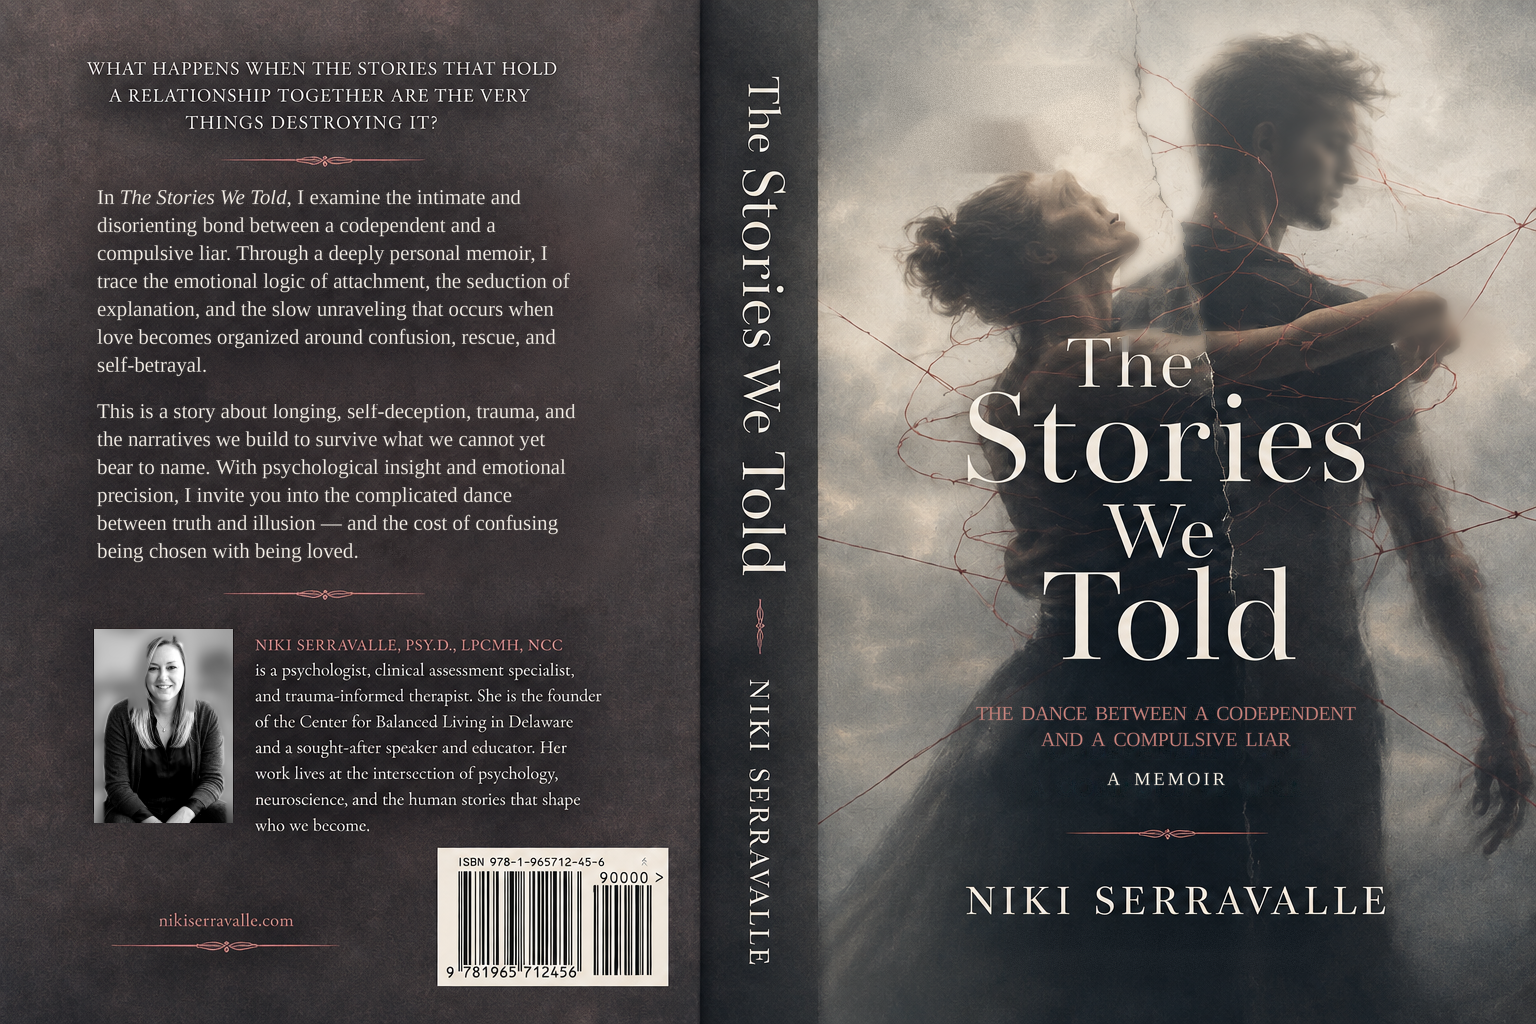
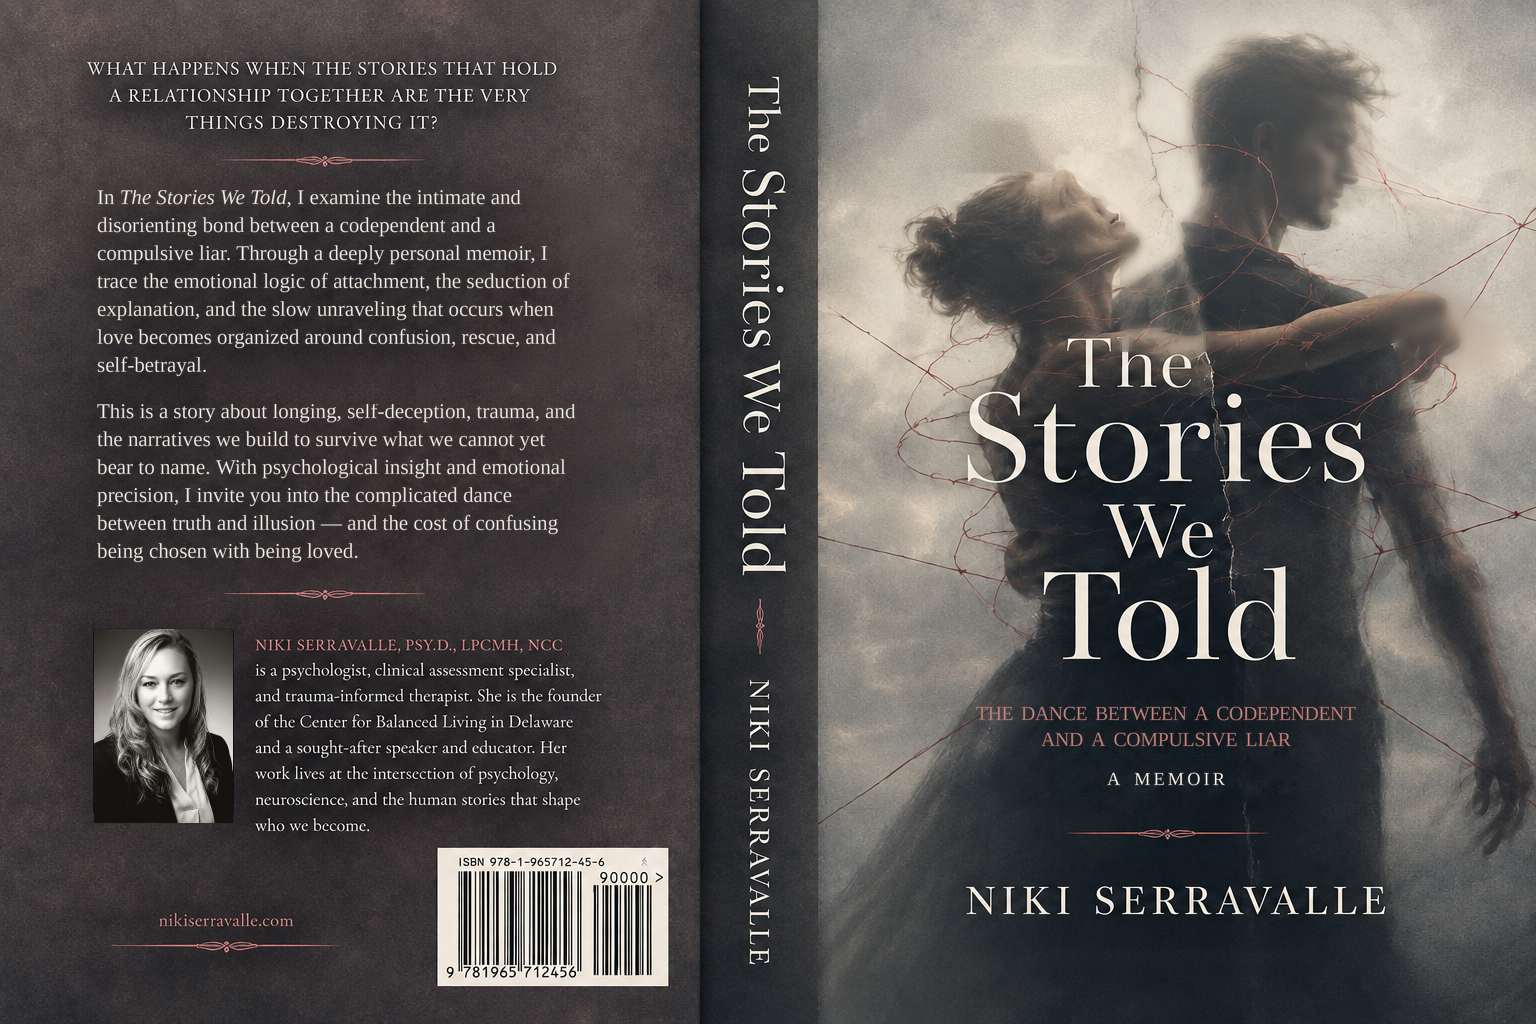
Swap to sharpened studio B&W headshot; recover blurred hair detail
Replace the author photo with the supplied studio B&W headshot, sharpening the
soft right-side hair and wavy ends (texture-weighted, soft-clipped to avoid
halos) to recover strand detail. Place it in the back-cover slot and regenerate
comps. Remove the superseded bookshelf waist-up version.

Claude-Session: https://claude.ai/code/session_01HgndQ1X8EGE1cvxGzWYirU

Changed region(s): [[0.0625, 0.5938, 0.1562, 0.8125]]

diff --git a/deliverables/rev2-the-stories-we-told/README.md b/deliverables/rev2-the-stories-we-told/README.md
@@ -17,7 +17,7 @@ Applied directly to the flattened cover, for **direction only** — not final ar
 - `front_optionA_15pct-lift.png` / `front_optionB_20pct-lift.png` — front, +15% / +20% lift
 - `fullwrap_optionA_15pct-lift.png` / `fullwrap_optionB_20pct-lift.png` — full wraps
 - `backcover_first-person-DRAFT.png` — back cover with the first-person draft copy + new headshot
-- `author-headshot_BW_waist-up.png` — the supplied photo, isolated, waist-up, black and white
+- `author-headshot_BW_studio-sharpened.png` — the supplied studio B&W headshot with the soft hair sharpened (strand detail recovered, no halos)
 - `thumbnail-test_200px_original-vs-A-vs-B.png` — the 200px thumbnail test
 
 ### What the comps include
@@ -30,7 +30,7 @@ Applied directly to the flattened cover, for **direction only** — not final ar
   fingers stop reading — a receding soft-focus fix, not an anatomical redraw
 - Upper third + left edge lifted toward warm stone/bone, lower-right kept dark
 - Back-cover **description reset in first person** (draft), author bio left third-person
-- **New B&W author headshot** placed in the back-cover photo slot
+- **New B&W studio headshot** (hair sharpened) placed in the back-cover photo slot
 
 ## Still needs supplied files / layered source
 - **Approved back-cover copy** — the first-person text here is a faithful draft
